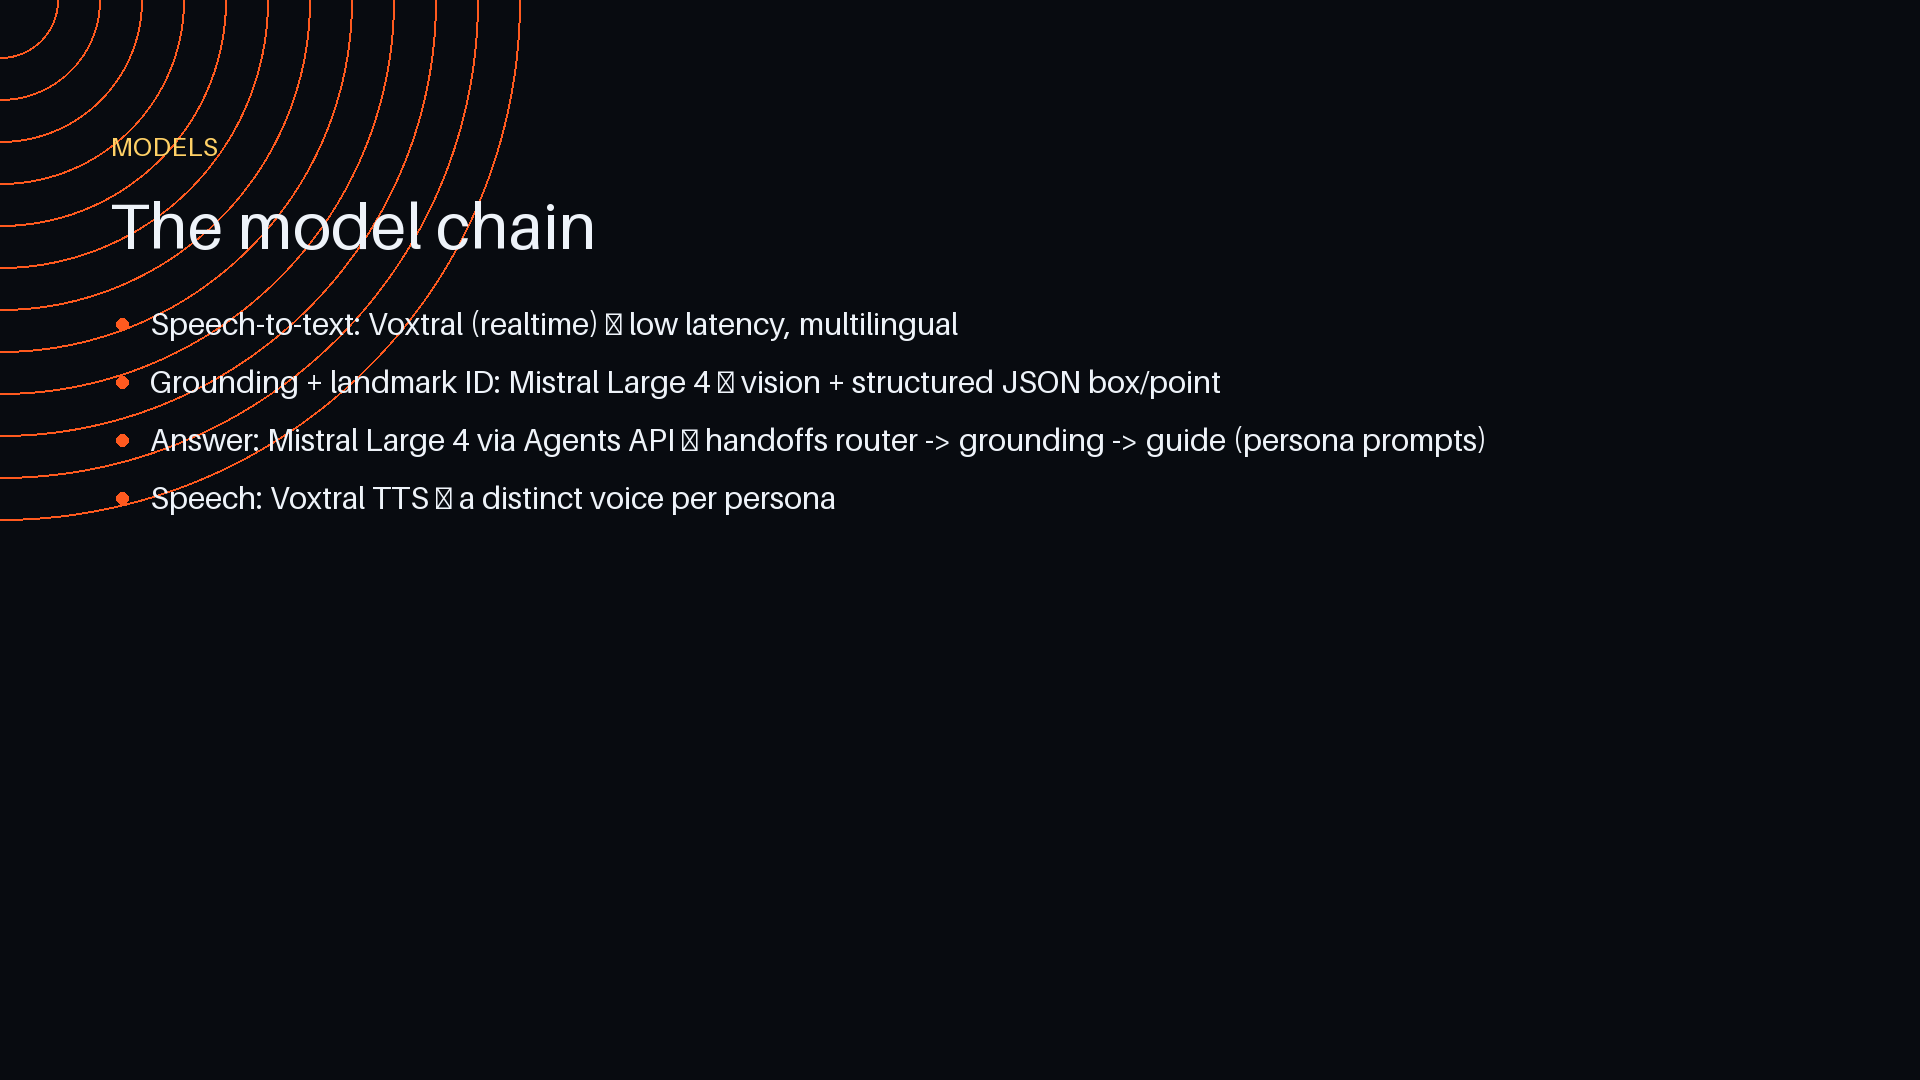
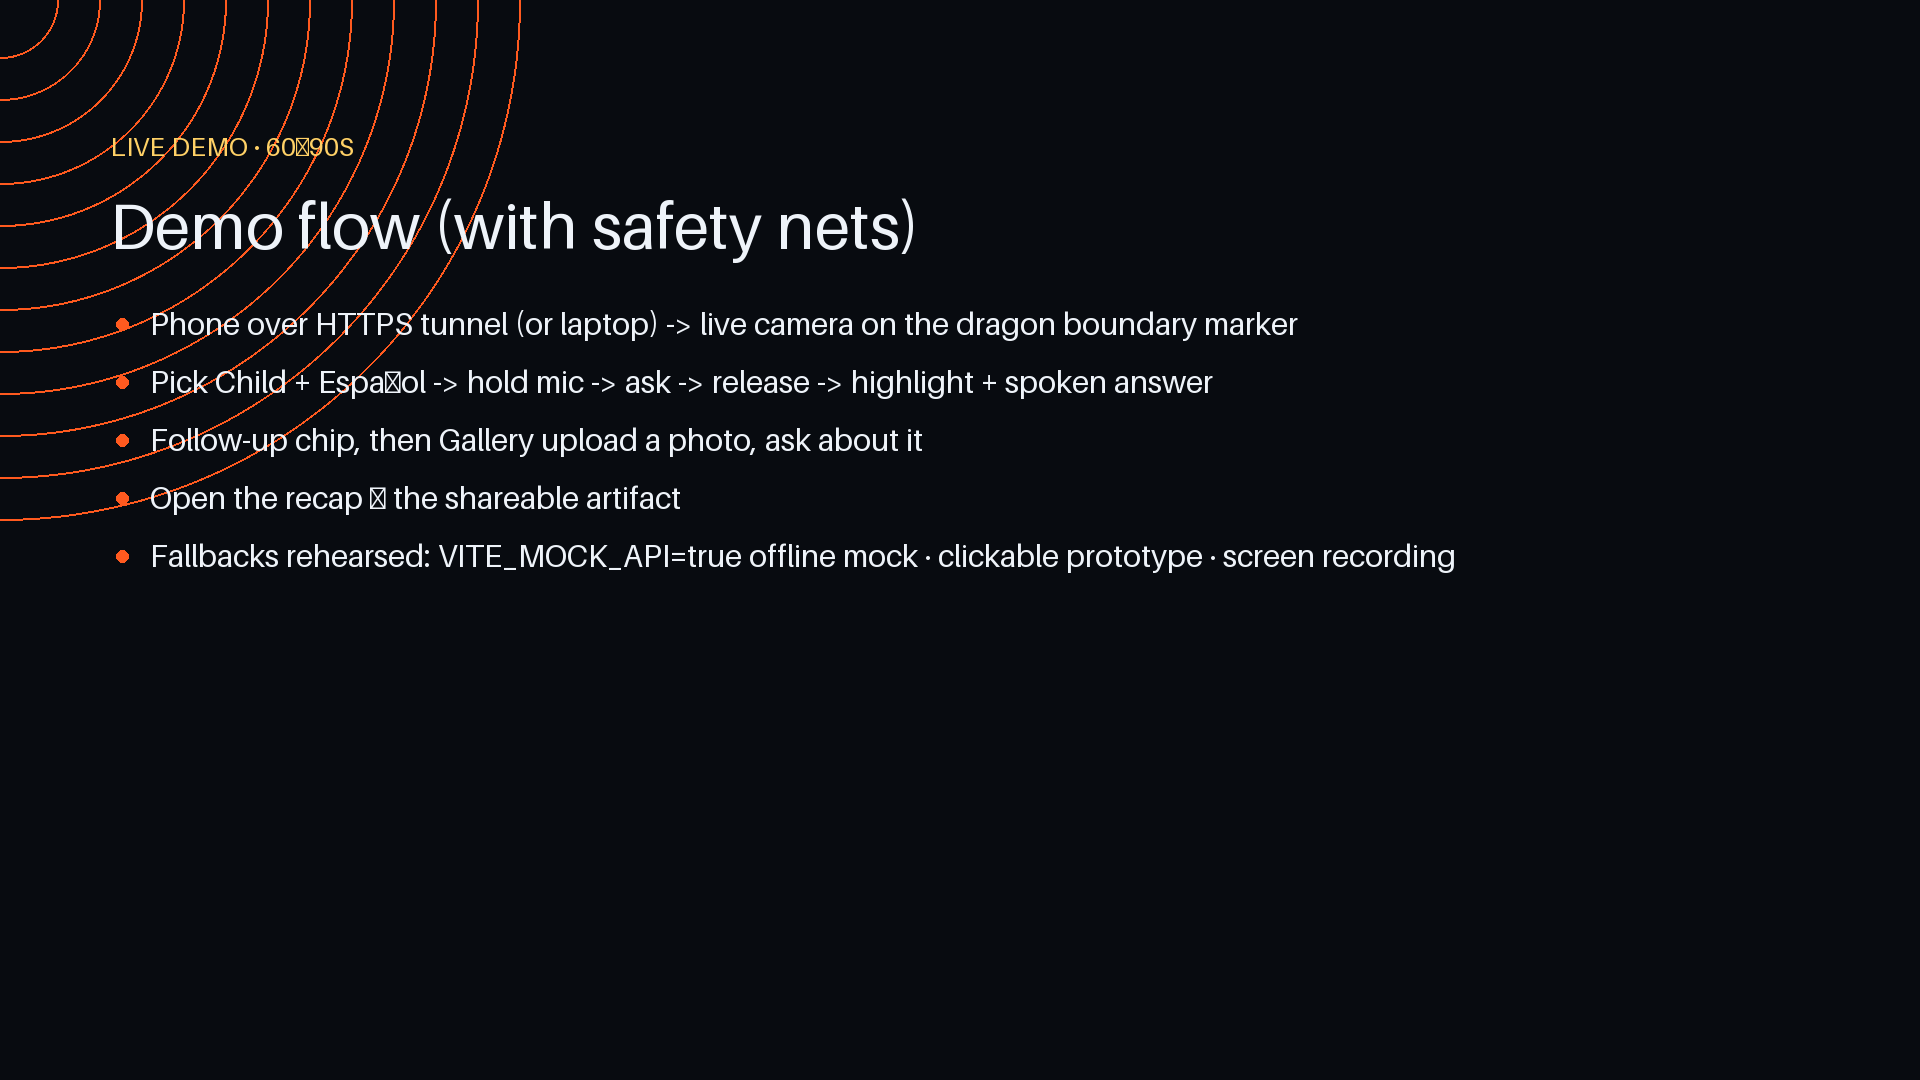
docs: restructure hackathon deck as a story arc — hook, traveller personas, gap, product, magic moment, demo, tech, proof, roadmap+CTA (12 slides)
Generated by Mistral Vibe.

diff --git a/docs/deck/render_deck.py b/docs/deck/render_deck.py
@@ -1,5 +1,5 @@
 #!/usr/bin/env python3
-"""Render docs/deck.md content as 1920x1080 slide PNGs -> docs/deck/slides/.
+"""Render the Vysta hackathon deck as 1920x1080 slide PNGs -> docs/deck/slides/.
 
 Run:  py docs/deck/render_deck.py   (needs Pillow)
 """
@@ -9,14 +9,13 @@ from PIL import Image, ImageDraw, ImageFont
 W, H = 1920, 1080
 OUT = Path(__file__).resolve().parent / "slides"
 BG = (8, 11, 16)
-PANEL = (15, 20, 29)
-ACCENT = (255, 90, 31)   # architect orange — brand
+ACCENT = (255, 90, 31)   # brand orange
 GOLD = (255, 209, 102)
 TEXT = (238, 243, 249)
 DIM = (160, 172, 188)
 
 
-def font(size, bold=False):
+def font(size):
     try:
         return ImageFont.load_default(size=size)
     except TypeError:
@@ -41,8 +40,7 @@ def wrap(d, text, f, max_w):
 def slide(title, kicker=None, bullets=(), footer=None):
     img = Image.new("RGB", (W, H), BG)
     d = ImageDraw.Draw(img)
-    # accent glow top-left
-    for i in range(12):
+    for i in range(12):  # concentric accent rings, top-left glow
         r = 520 - i * 42
         d.ellipse([-r, -r, r, r], outline=(ACCENT[0], ACCENT[1], ACCENT[2], 12), width=2)
     y = 130
@@ -67,68 +65,77 @@ def slide(title, kicker=None, bullets=(), footer=None):
 
 
 SLIDES = [
-    dict(kicker="Mistral Hackathon 2026", title="🗺 Vysta — the city that answers back",
+    dict(kicker="Mistral Hackathon 2026", title=" Vysta — the city that answers back",
          bullets=["Point, ask, listen — and see exactly what it means",
-                  "Voice-driven, visually grounded city guide",
+                  "A voice-driven, visually grounded city guide that lives in your browser",
                   "Mobile web PWA · iOS Safari & Android Chrome · City of London pilot"],
          footer="Voice question in -> spoken answer out -> exact spot highlighted on screen"),
-    dict(kicker="Why", title="People guess at buildings. Guides don't point.",
-         bullets=["Guidebooks are walls of text; audio tours are passive and off-topic",
-                  'The real questions in the street: "What is that carving? When was it built? Who is it for?"',
-                  "Google Lens answers with text cards; audio guides never show WHERE",
-                  "Nobody combines voice question + spoken answer + highlight on the exact spot"],
-         footer="Vysta closes that gap"),
-    dict(kicker="What", title="Vysta — a tour guide that lives in your browser",
-         bullets=["1. Open the app -> live camera fills the screen",
-                  "2. Hold the mic, ask a question out loud",
-                  "3. Release -> frame freezes, target highlighted (box + pulsing point)",
-                  "4. Answer as caption AND spoken aloud",
-                  "5. Follow-ups on the same scene -> shareable tour recap"],
-         footer='Demo line: "What\'s that dragon above the door?" -> it lights up and the guide explains'),
-    dict(kicker="Personalisation", title="One guide, three personalities",
-         bullets=["Persona: 🧒 Child · 🏛 Architect · 📜 Historian — different voice, vocabulary, depth, same facts",
-                  "Language: English / Español — answer in the chosen language regardless of the question",
+    dict(kicker="The story", title="Saturday in the City. You stop in front of a dragon.",
+         bullets=['"Mum, what IS that?" — every tourist has asked this out loud',
+                  "The guidebook has 400 pages. The audio tour is about something else.",
+                  "You take a photo, you google it, you give up. The moment is gone.",
+                  "Cities are full of stories — but nothing in your pocket points at them and tells them."],
+         footer="That moment is the product brief"),
+    dict(kicker="Who it's for", title="Meet the travellers Vysta is built for",
+         bullets=[" The 8-year-old: 'Why is the dragon holding a shield?' — wants play, not paragraphs (Child persona)",
+                  " The architecture student: 'What is that facade made of?' — wants materials and technique (Architect persona)",
+                  " The history buff: 'Tell me everything about this gate' — wants dates and anecdotes (Historian persona)",
+                  " The visitor abroad: asks in Spanish, gets a Spanish answer — with the spot highlighted (EN/ES)"],
+         footer="One app, four travellers — persona + language + detail adapt the same facts"),
+    dict(kicker="The gap", title="Existing tools answer, but never point",
+         bullets=["Google Lens: great answers, but a text card — it doesn't show you WHERE on the building",
+                  "Audio tours: passive, linear, never about the thing you're actually looking at",
+                  "Nobody combines: voice question + spoken answer + highlight on the exact spot",
+                  "Vysta = the missing 'point at it and ask' layer of the city"],
+         footer="Positioning: the visual, voice-first layer on top of the city"),
+    dict(kicker="The product", title="Vysta — point, ask, listen, see",
+         bullets=["1. Open the app -> live camera fills the screen (or upload a gallery photo/video)",
+                  "2. Hold the mic, ask out loud: 'What's that carving above the door?'",
+                  "3. Release -> frame freezes, the target is highlighted (box + pulsing point)",
+                  "4. Answer appears as a caption AND is spoken in your persona's voice",
+                  "5. Ask follow-ups on the same scene -> finish with a shareable tour recap"],
+         footer="No typing, no menus — the street is the interface"),
+    dict(kicker="The magic moment", title="The dragon lights up — and tells you its story",
+         bullets=['Demo: hold mic -> "¿Qué es ese dragón?" -> release',
+                  "Frozen frame, glowing highlight box + gold pulsing point on the dragon",
+                  "Caption + spoken answer in Spanish, Child persona voice",
+                  "Follow-up chip -> second answer on the same frame -> recap page"],
+         footer="This 5-second moment is the whole pitch"),
+    dict(kicker="Live demo · 60–90s", title="Demo flow (with safety nets)",
+         bullets=["Phone over HTTPS tunnel (or laptop) -> live camera on the dragon boundary marker",
+                  "Pick Child + Español -> hold mic -> ask -> release -> highlight + spoken answer",
+                  "Follow-up chip, then Gallery upload a photo, ask about it",
+                  "Open the recap — the shareable artifact",
+                  "Fallbacks rehearsed: VITE_MOCK_API=true offline mock · clickable prototype · screen recording"]),
+    dict(kicker="Personalisation", title="Same facts, four ways to hear them",
+         bullets=["Persona: Child / Architect / Historian — distinct voice, vocabulary, depth (UI re-themes too)",
+                  "Language: English / Español — answer language follows the picker, not the question",
                   "Detail: Brief / Standard / Deep — one sentence to full story",
-                  "Plus: GPS-aware answers, gallery upload (ask about your own photos/videos), per-persona UI theming"]),
-    dict(kicker="Live demo · 60–90s", title="The demo flow",
-         bullets=["Phone over HTTPS (or laptop) -> live camera on a landmark",
-                  'Pick Child persona + Español, hold mic: "¿Qué es ese dragón?" -> release',
-                  "FREEZE + HIGHLIGHT + SPOKEN ANSWER ← pause 3s here (the money shot)",
-                  "Follow-up chip -> second answer on the same frame",
-                  "Gallery: upload a photo, ask about it -> open the recap artifact",
-                  "Fallbacks ready: VITE_MOCK_API=true offline mock, clickable prototype, recording"]),
+                  "Plus: GPS-aware answers near you · gallery upload · walk minimap + compass"],
+         footer="Personalisation is a first-class feature, not a setting"),
     dict(kicker="How", title="Technical implementation",
-         bullets=["PWA (Vite+React+TS): getUserMedia camera, MediaRecorder push-to-talk, gallery input, 0–1000 overlay",
+         bullets=["PWA (Vite+React+TS): getUserMedia camera, MediaRecorder push-to-talk, gallery input, 0-1000 overlay",
                   "Express API: /api/stt · /api/ask · /api/tts · /api/recap (+GPS, tour memory)",
-                  "Mistral chain: Voxtral STT -> Mistral Large 4 grounding (box_2d/point_2d, 0–1000) -> Agents API (router->grounding->guide) -> Voxtral TTS per persona",
-                  "Grounding contract: {\"box_2d\":[x,y,w,h], \"point_2d\":[x,y]} rendered on the displayed image rect",
+                  "Mistral chain: Voxtral STT -> Large 4 grounding (box_2d/point_2d, 0-1000) -> Agents API (router->grounding->guide) -> Voxtral TTS per persona",
+                  "Grounding contract: {\"box_2d\":[x,y,w,h], \"point_2d\":[x,y]} normalised 0-1000, rendered on the displayed rect",
                   "Single-container Docker deploy (API + PWA same origin)"]),
     dict(kicker="Models", title="The model chain",
          bullets=["Speech-to-text: Voxtral (realtime) — low latency, multilingual",
                   "Grounding + landmark ID: Mistral Large 4 — vision + structured JSON box/point",
-                  "Answer: Mistral Large 4 via Agents API — handoffs router -> grounding -> guide (persona prompts)",
+                  "Answer: Mistral Large 4 via Agents API — handoffs router -> grounding -> guide (persona prompts in prompts/*.md)",
                   "Speech: Voxtral TTS — a distinct voice per persona"]),
-    dict(kicker="Status", title="Built & working today",
-         bullets=["✅ Full voice flow: PTT -> STT -> grounded answer -> highlight -> TTS (live)",
-                  "✅ Personas × languages × detail levels, persona-themed UI",
-                  "✅ GPS-aware grounding · gallery upload (photo/video) · minimap + compass",
-                  "✅ Follow-up chips, replay/stop · tour recap · grounding eval harness",
-                  "✅ Offline mock mode for demos · Docker deploy"]),
-    dict(kicker="Roadmap", title="Now -> next -> later",
-         bullets=["NOW: demo-ready pilot — 3 City of London landmarks (dragon boundary, St Paul's, Leadenhall)",
-                  "NEXT: more landmarks + curated facts DB · tap-to-ask sub-regions · shareable answer cards",
-                  "LATER: multi-city & multi-language · group tours · AR directions · offline on-device grounding"]),
-    dict(kicker="Try it", title="Run Vysta in 30 seconds",
-         bullets=["git clone <repo> && cd mistral-hackathon-2026",
-                  "npm install && cp .env.example .env  # add MISTRAL_API_KEY",
-                  "npm run dev:server  # :3001      npm run dev:web  # :5173",
-                  "Phone: npx ngrok http 5173 -> open the HTTPS URL (camera needs a secure context)",
-                  "Offline demo: VITE_MOCK_API=true npm run dev:web"]),
-    dict(kicker="Appendix", title="Judging criteria mapping",
-         bullets=["Innovation: voice + visual grounding + spoken persona answers in one flow",
-                  "Technical: real chain Voxtral STT/TTS + Large 4 grounding + Agents API, installable PWA",
-                  "Design: mobile-first, persona theming, polished dock/sheets — prototypes in docs/design/",
-                  "Demo: 90s live flow with mock fallback; recap artifact to take away"]),
+    dict(kicker="Proof", title="Built & working today",
+         bullets=[" Full live voice flow: PTT -> STT -> grounded answer -> highlight -> TTS",
+                  " Personas × languages × detail levels with persona-themed UI",
+                  " GPS-aware grounding · gallery upload (photo/video) · minimap + compass · recap",
+                  " Grounding eval harness (test-grounding/) · offline mock mode · Docker deploy"]),
+    dict(kicker="Roadmap + CTA", title="From one street to every city",
+         bullets=["NOW: pilot in the City of London — dragon boundary, St Paul's, Leadenhall Market",
+                  "NEXT: curated landmark DB · tap-to-ask sub-regions · shareable answer cards · more cities/languages",
+                  "LATER: group tours · AR directions · offline on-device grounding",
+                  "Try it: npm install && npm run dev:web -> http://localhost:5173 (ngrok for phone)",
+                  "The recap page from the demo is the takeaway artifact."],
+         footer="Vysta — point, ask, listen, see."),
 ]
 
 
